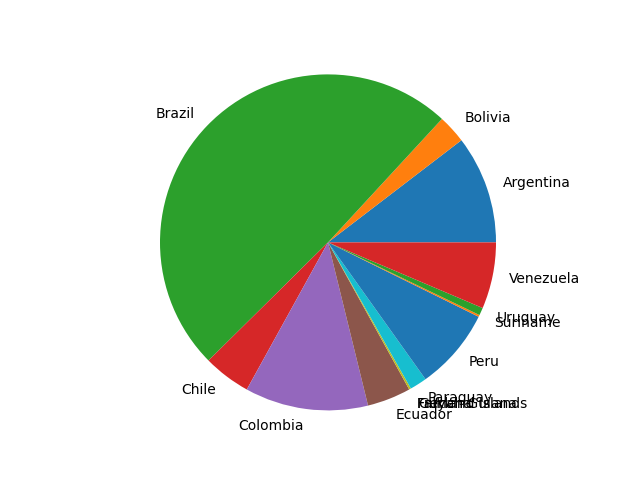
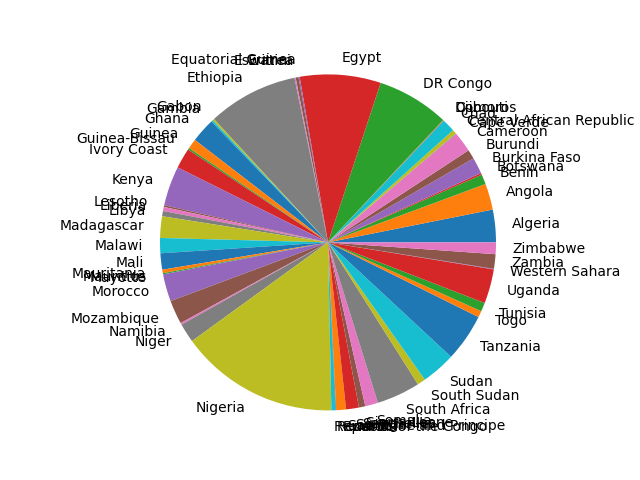
uso de pandas, matplotlib y agregando archivos de ambientes env por el curso

Changed region(s): [[0.0938, 0.0938, 1.0, 0.9062]]

diff --git a/app/main.py b/app/main.py
@@ -1,14 +1,24 @@
 import utils
 import read_csv
 import charts
+import pandas as pd
 
 def run():
-  data = read_csv.read_csv("data.csv")
+
+  '''
   data = list(filter(lambda item: item["Continent"] == "South America", data))
   countries = list(map(lambda x : x["Country/Territory"], data))
   percentages = list(map(lambda x : x["World Population Percentage"], data))
+  '''
+
+  df = pd.read_csv("data.csv")
+  df = df[df["Continent"] == "Africa"]
+
+  countries = df["Country/Territory"].values
+  percentages = df["World Population Percentage"].values
   charts.generate_pie_chart(countries, percentages)
 
+  data = read_csv.read_csv("data.csv")
   country = input("select a country: ")
   print(country)
 

diff --git a/web-server/store.py b/web-server/store.py
@@ -1,0 +1,10 @@
+import requests
+
+def get_categories():
+  r = requests.get("https://api.escuelajs.co/api/v1/categories")
+  print(r.status_code)
+  print(r.text)
+  print(type(r.text))
+  categories = r.json()
+  for category in categories:
+    print(category["image"])

diff --git a/web-server/main.py b/web-server/main.py
@@ -1,0 +1,8 @@
+import store
+
+def run():
+  store.get_categories()
+
+
+if __name__ == "__main__":
+  run()
